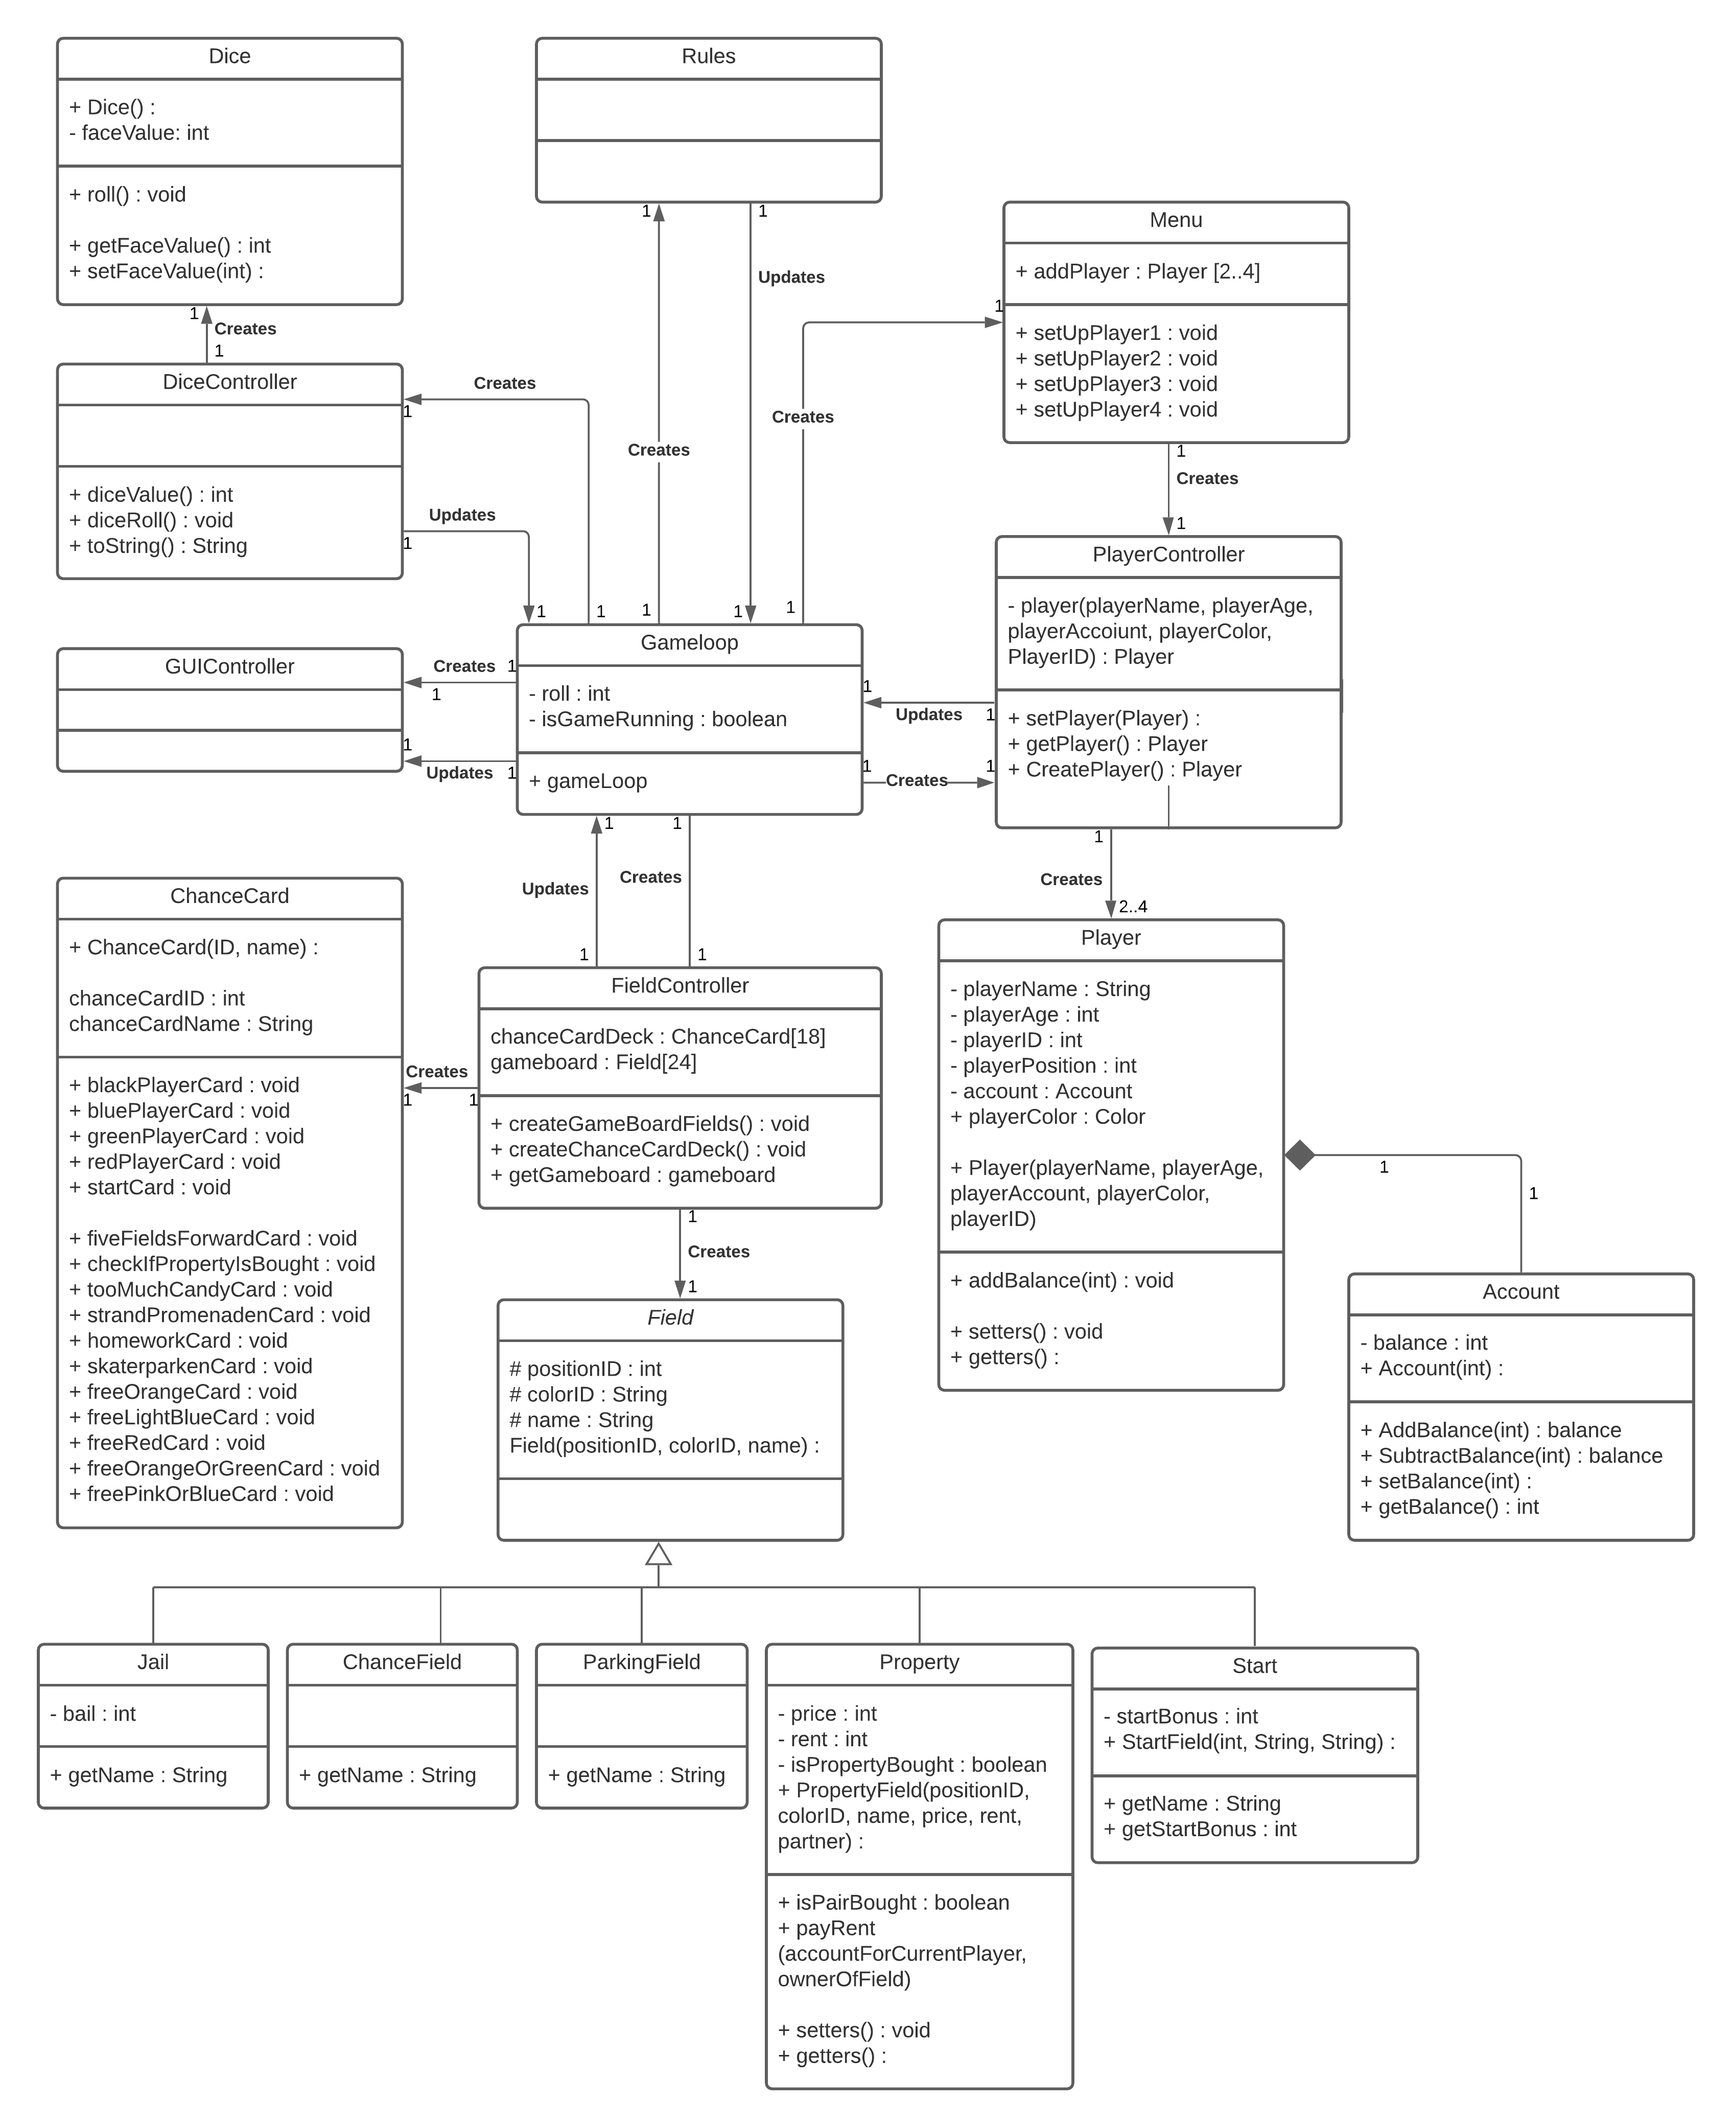
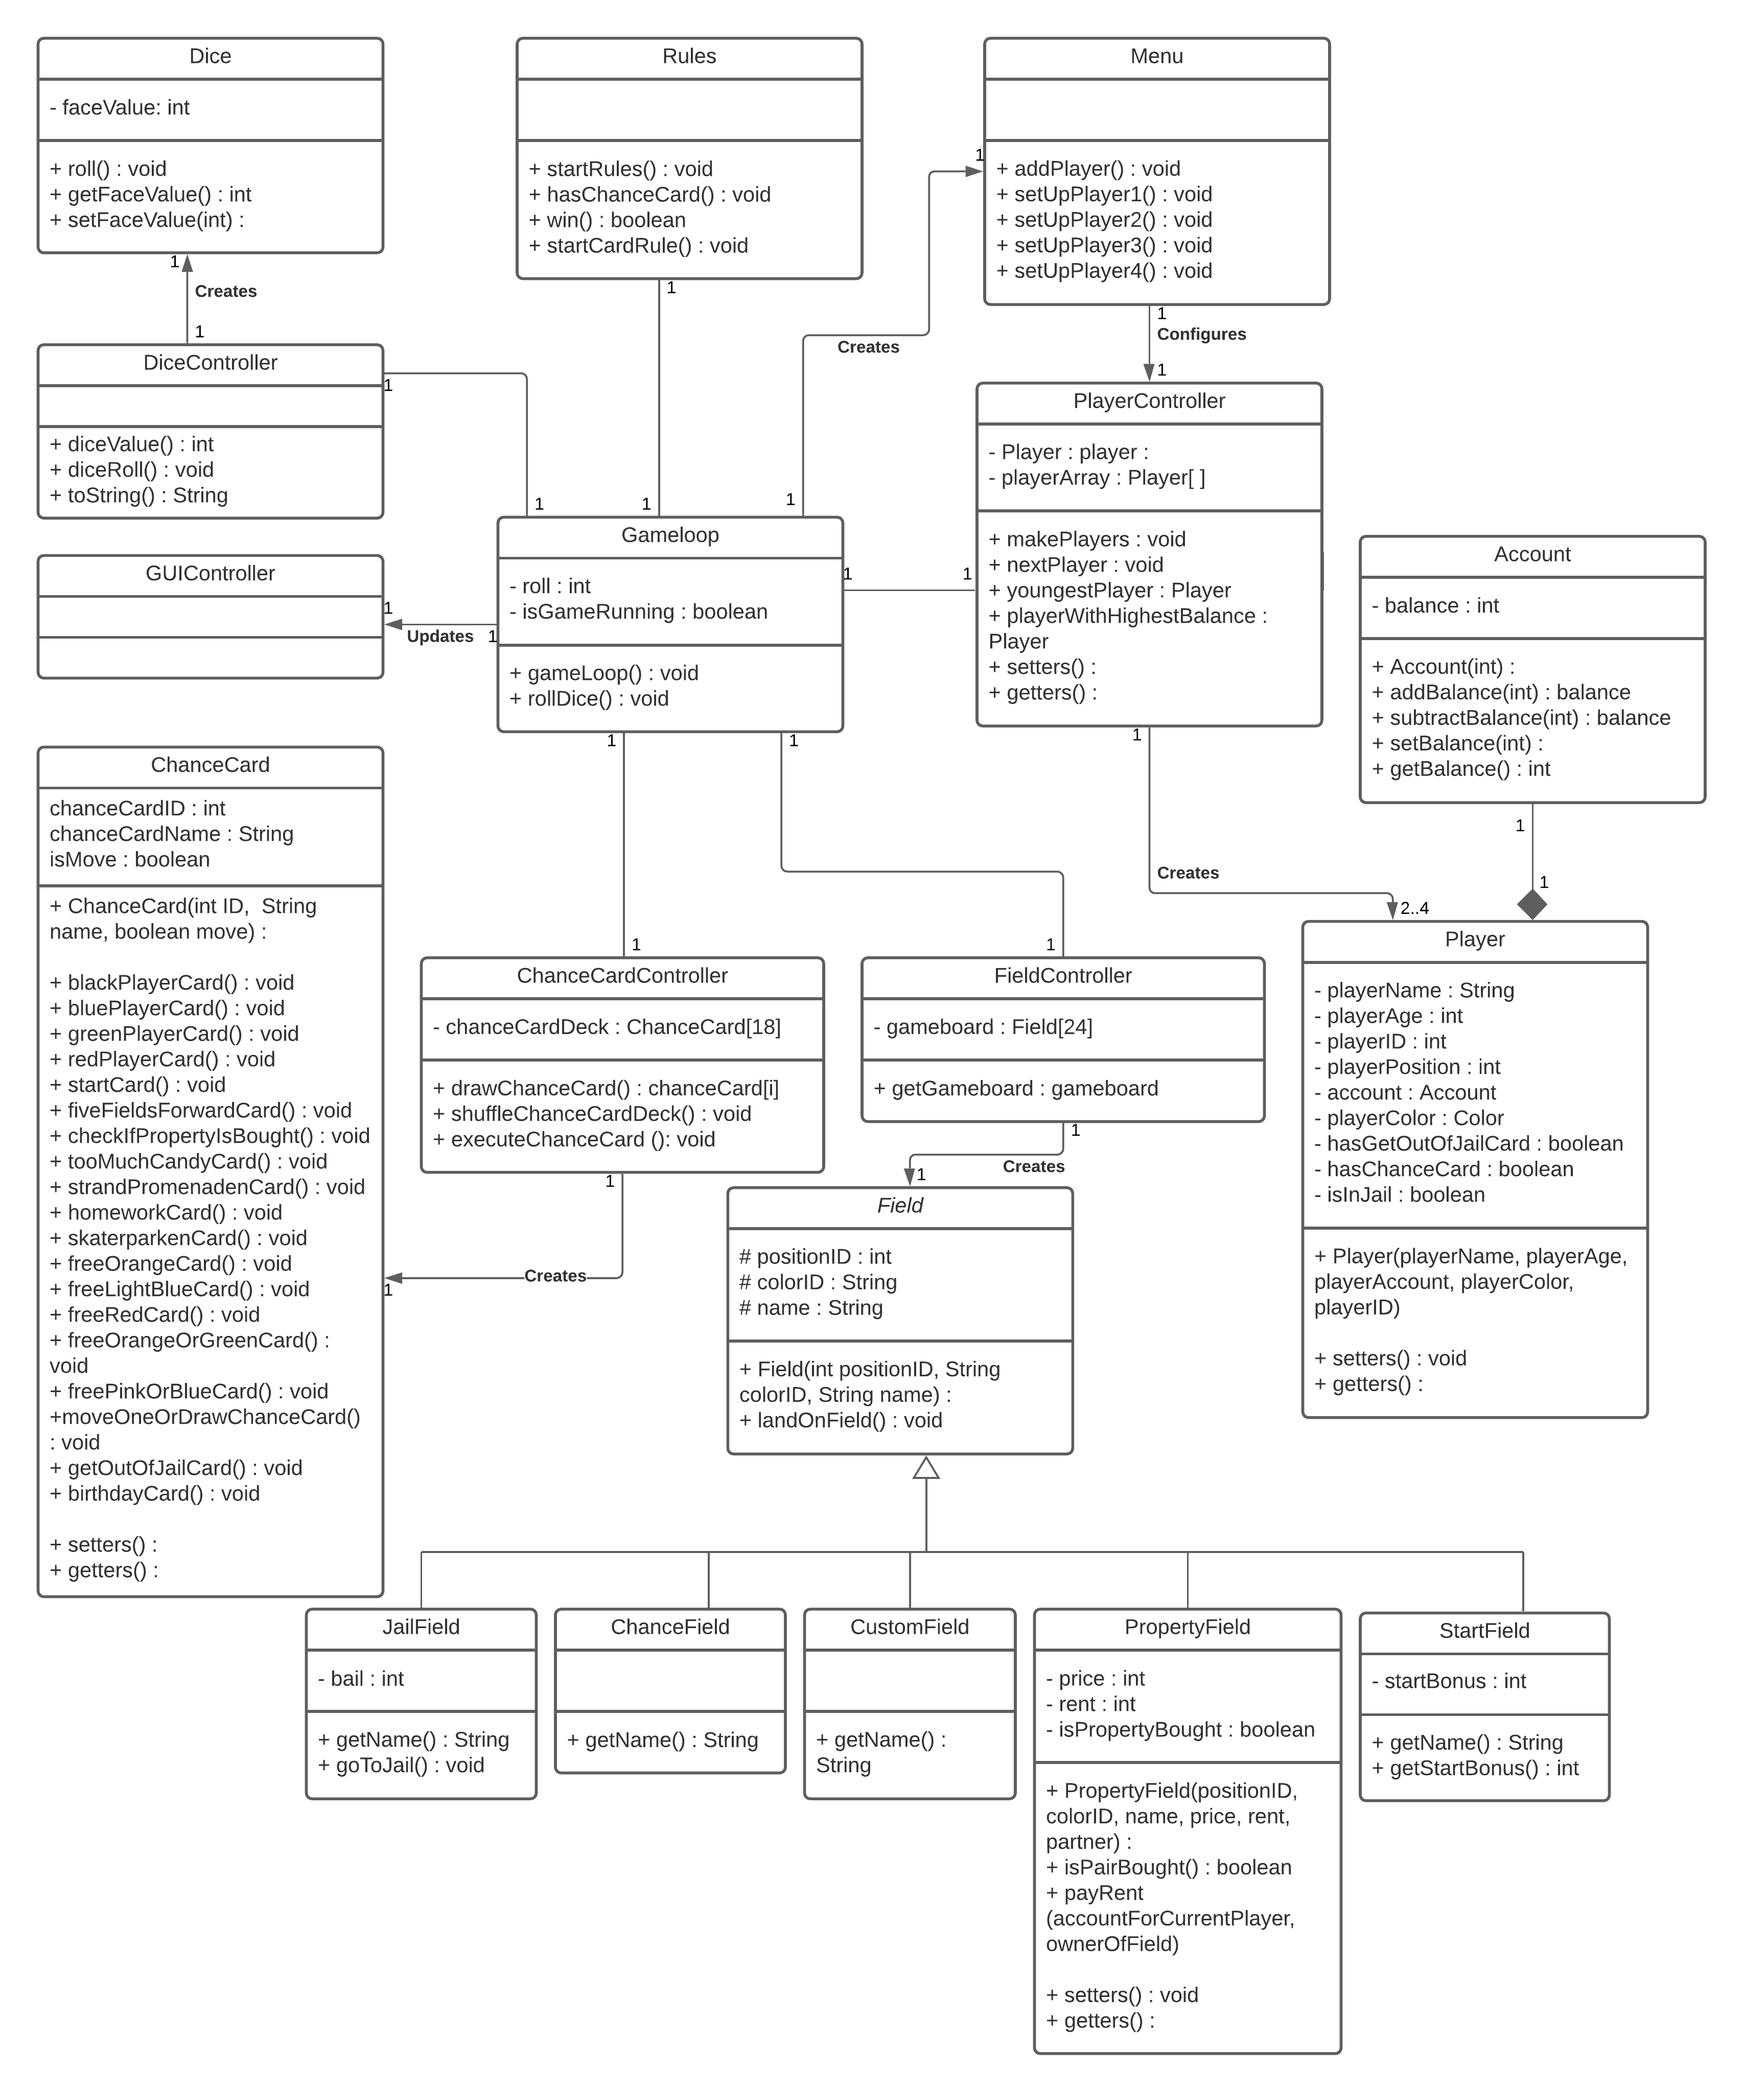
Updated sekvensdiagram, use-case diagram and designklasse diagram

diff --git a/Report/sources/1__Abstract.tex b/Report/sources/1__Abstract.tex
@@ -1,7 +1,11 @@
 \begin{flushleft} % sætter tekststarten i venstre marginside.
 
+\begin{center}
+    \vspace{0.9cm}
+    \textbf{Abstract}
+\end{center}
 \doublespacing
 
-In the present project, we developed a Monopoly Junior game for Windows OS users. The project followed a Unified Process style of workflow including the following two phases: elaboration and construction. The analyses for the project included a requirements specification, actor and use-case analyses and a domain analysis. The designs for the project included a system-sequence, sequence and design class analyses. The implementation resulted in a playable Monopoly Junior game with zero or undetected bugs. For tests, JUnit tests were conducted for each relevant software class along with a user test for the entier program. 
+In the present project, we developed a Monopoly Junior game for Windows OS users. The project followed a Unified Process style of workflow including the following two phases: elaboration and construction. The analyses for the project included a requirements specification, actor and use-case analyses and a domain analysis. The designs for the project included a system-sequence, sequence and design class analyses. The implementation resulted in a playable Monopoly Junior game with zero or undetected bugs. For tests, JUnit tests were conducted for each relevant software class along with a user test for the entire program. 
 
 \end{flushleft}

diff --git a/Report/sources/4_Design.tex b/Report/sources/4_Design.tex
@@ -1,10 +1,35 @@
 \begin{flushleft}
 
 \subsection{Sekvensdiagram}
+\includegraphics[width=0.9\textwidth]{Report/figures/Sekvensdiagram1.png}~\\[1cm]
+Figur 5.1.1. Sekvensdiagram over rollDice som use-case.
+
+\includegraphics[width=0.9\textwidth]{Report/figures/Sekvensdiagram_ChanceField.png}~\\[1cm]
+Figur 5.1.2. Sekvensdiagram over polymorphism af metoden landOnField for ChanceField.
+
+
+\includegraphics[width=0.9\textwidth]{Report/figures/Sekvensdiagram_CustomField.png}~\\[1cm]
+Figur 5.1.3. Sekvensdiagram over polymorphism af metoden landOnField for CustomField.
+
+
+\includegraphics[width=0.9\textwidth]{Report/figures/Sekvensdiagram_JailField.png}~\\[1cm]
+Figur 5.1.4. Sekvensdiagram over polymorphism af metoden landOnField for JailField.
+
+
+\includegraphics[width=0.9\textwidth]{Report/figures/Sekvensdiagram_PropertyField.png}~\\[1cm]
+Figur 5.1.5. Sekvensdiagram over polymorphism af metoden landOnField for PropertyField.
+
+
+\includegraphics[width=0.9\textwidth]{Report/figures/Sekvensdiagram_StartField.png}~\\[1cm]
+Figur 5.1.6. StartField over polymorphism af metoden landOnField for ChanceField..
+
+
+
+
 
 \subsection{Designklassediagram}
 \begin{center}
 \includegraphics[width=0.9\textwidth]{Report/figures/Class Diagram.png}~\\[1cm]
 \end{center}
-Figur 6.3.1. Designklassediagram over Monopoly Junior spillet.
+Figur 5.2.1. Designklassediagram over Monopoly Junior spillet.
 \end{flushleft}

diff --git a/Report/sources/3_Analysis.tex b/Report/sources/3_Analysis.tex
@@ -6,18 +6,24 @@
 Til Projektet har vi udarbejdet en liste over use-cases
 
 \includegraphics[width=1\textwidth]{Report/figures/Use case.PNG}
+Figur 4.1.1. Tabel over casual use-cases for Monopolyspillet.
 \newpage
 \subsection{Fully dressed use-case}
 Udover vores causal beskrevede use-cases har vi lavet en fully dressed beskrivelse til en af de mest centrale use-cases, Roll Dice.
 \addlinespace
 \includegraphics[width=0.9\textwidth]{Report/figures/Fullyusecase.png}
+Figur 4.2.1. Tabel over fully dressed use-cases.
+
+\subsection{Use-case diagram}
+\includegraphics[width=0.9\textwidth]{Report/figures/Use case diagram CDIO del3.png}
+Figur 4.3.1. Use-case diagram over Monopoly spillet.
 
 \subsection{Domæne model}
 \includegraphics[width=1\textwidth]{Report/figures/Domæne Model.jpeg}~\\[1cm]
-Figur 5.3.1. Domæne model over Monopoly Junior spil.
+Figur 4.4.1. Domæne model over Monopoly Junior spil.
 
 \subsection{Systemsekvensdiagram}
 \includegraphics[width=1\textwidth]{Report/figures/System sekvensdiagram.png}~\\[1cm]
-Figur 6.2.1. Systemsekvensdiagram over Monopoly Junior spillet.
+Figur 4.5.1. Systemsekvensdiagram over Monopoly Junior spillet.
 
 \end{flushleft}

diff --git a/Report/main.tex b/Report/main.tex
@@ -75,6 +75,10 @@ numbersep=0.5cm
 \input{sources/0_frontpage.tex}
 
 \newpage
+\input{Report/sources/1__Abstract}
+\thispagestyle{fancy}
+
+\newpage
 \doublespacing
 %\addcontentsline{toc}{section}{Table of Contents}
 \renewcommand{\baselinestretch}{1}\normalsize
@@ -83,6 +87,8 @@ numbersep=0.5cm
 %\singlespacing
 \thispagestyle{fancy} % force page style
 
+
+
 \newpage
 \section{Timeregnskab}
 \input{Report/sources/0a_Timeregnskab}
@@ -90,10 +96,7 @@ numbersep=0.5cm
 \pagenumbering{arabic} 
 \fancyfoot[C]{Page \thepage\ of \pageref{endOfDoc}}
 
-\newpage
-\section{Abstract}
-\input{Report/sources/1__Abstract}
-\thispagestyle{fancy}
+
 
 \newpage
 \section{Introduktion}
@@ -128,6 +131,11 @@ numbersep=0.5cm
 \newpage
 \section{Projektplanlægning}
 \input{Report/sources/7_Projektplanlægning}
+\thispagestyle{fancy}
+
+\newpage
+\section{Brugerguide}
+\input{Report/sources/7a_Konfigurationsstyring}
 \thispagestyle{fancy}
 
 \newpage

diff --git a/Report/sources/0a_Timeregnskab.tex b/Report/sources/0a_Timeregnskab.tex
@@ -7,15 +7,15 @@
  \hline
  
  
- Programmering      & 0 & x & x & x & 16 & 15 \\
+ Programmering      & 0 & x & x & x & 16 & 18 \\
  
- Møder              & 6 & 4 & 4 & 4 & 8 & 8 \\
+ Møder              & 7 & 4 & 4 & 4 & 8 & 8 \\
  
- Rapportskrivning   & 14 & 0.5 & 1 & x & x & x \\
+ Rapportskrivning   & 21 & 0.5 & 1 & x & x & x \\
  
  \hline
  
- I alt              & 20 & 4.5 & 5 & x & x & x \\
+ I alt              & 28 & 4.5 & 5 & x & x & x \\
  
  
  \hline

diff --git a/Report/sources/9b_Bilag.tex b/Report/sources/9b_Bilag.tex
@@ -1,0 +1,5 @@
+\begin{center}
+    \includegraphics[width=0.5\textwidth]{Report/root/1.png}\\
+    
+    
+\end{center}

diff --git a/Report/sources/2_Kravspecifikation.tex b/Report/sources/2_Kravspecifikation.tex
@@ -1,4 +1,4 @@
-
+    
 
 
 
